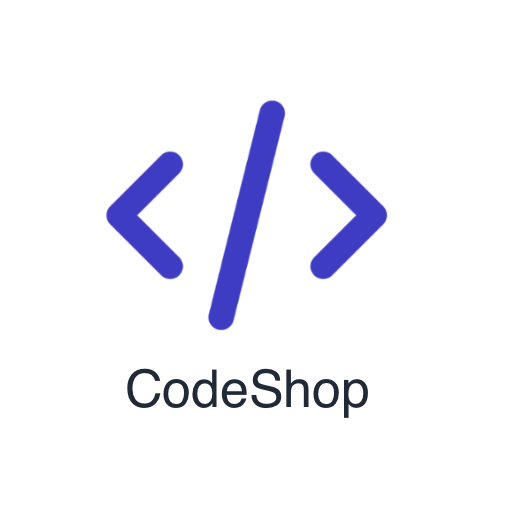
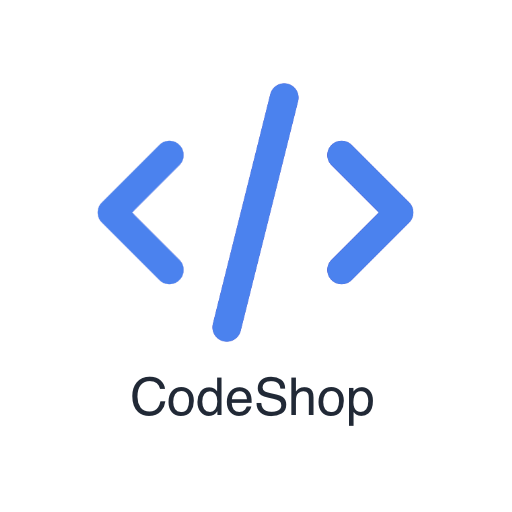
chore: 主题色更换为蓝色

diff --git a/pages/account/password.vue b/pages/account/password.vue
@@ -9,7 +9,7 @@
             </label>
             <div class="mt-1">
               <input v-model="current_password" id="current_password" name="current_password" type="password" required=""
-                class="appearance-none block w-full px-3 py-2 border border-gray-300 rounded-md shadow-sm placeholder-gray-400 focus:outline-none focus:ring-indigo-500 focus:border-indigo-500 sm:text-sm" />
+                class="appearance-none block w-full px-3 py-2 border border-gray-300 rounded-md shadow-sm placeholder-gray-400 focus:outline-none focus:ring-blue-400 focus:border-blue-400 sm:text-sm" />
             </div>
           </div>
 
@@ -19,7 +19,7 @@
             </label>
             <div class="mt-1">
               <input v-model="password" id="password" name="password" type="password" required=""
-                class="appearance-none block w-full px-3 py-2 border border-gray-300 rounded-md shadow-sm placeholder-gray-400 focus:outline-none focus:ring-indigo-500 focus:border-indigo-500 sm:text-sm" />
+                class="appearance-none block w-full px-3 py-2 border border-gray-300 rounded-md shadow-sm placeholder-gray-400 focus:outline-none focus:ring-blue-400 focus:border-blue-400 sm:text-sm" />
             </div>
           </div>
           <div class="col-span-3 sm:col-span-2">
@@ -30,7 +30,7 @@
               <div class="mt-1">
                 <input v-model="password_confirmation" id="password_confirmation" name="password_confirmation"
                   type="password" required=""
-                  class="appearance-none block w-full px-3 py-2 border border-gray-300 rounded-md shadow-sm placeholder-gray-400 focus:outline-none focus:ring-indigo-500 focus:border-indigo-500 sm:text-sm" />
+                  class="appearance-none block w-full px-3 py-2 border border-gray-300 rounded-md shadow-sm placeholder-gray-400 focus:outline-none focus:ring-blue-400 focus:border-blue-400 sm:text-sm" />
               </div>
             </div>
           </div>
@@ -39,7 +39,7 @@
       <div class="px-4 py-3 bg-gray-100 sm:px-6">
         <Loading class="w-16">
           <button type="submit"
-            class="w-full flex justify-center py-2 px-4 border border-transparent rounded-md shadow-sm text-sm font-medium text-white bg-indigo-600 hover:bg-indigo-700 focus:outline-none focus:ring-2 focus:ring-offset-2 focus:ring-indigo-500">
+            class="w-full flex justify-center py-2 px-4 border border-transparent rounded-md shadow-sm text-sm font-medium text-white bg-blue-500 hover:bg-blue-600 focus:outline-none focus:ring-2 focus:ring-offset-2 focus:ring-blue-400">
             保存
           </button>
         </Loading>

diff --git a/pages/login.vue b/pages/login.vue
@@ -10,7 +10,7 @@
         </label>
         <div class="mt-1">
           <input v-model="email" id="email" name="email" type="email" autocomplete="email" required=""
-            class="appearance-none block w-full px-3 py-2 border border-gray-300 rounded-md shadow-sm placeholder-gray-400 focus:outline-none focus:ring-indigo-500 focus:border-indigo-500 sm:text-sm" />
+            class="appearance-none block w-full px-3 py-2 border border-gray-300 rounded-md shadow-sm placeholder-gray-400 focus:outline-none focus:ring-blue-400 focus:border-blue-400 sm:text-sm" />
         </div>
       </div>
 
@@ -21,21 +21,21 @@
         <div class="mt-1">
           <input v-model="password" id="password" name="password" type="password" autocomplete="current-password"
             required=""
-            class="appearance-none block w-full px-3 py-2 border border-gray-300 rounded-md shadow-sm placeholder-gray-400 focus:outline-none focus:ring-indigo-500 focus:border-indigo-500 sm:text-sm" />
+            class="appearance-none block w-full px-3 py-2 border border-gray-300 rounded-md shadow-sm placeholder-gray-400 focus:outline-none focus:ring-blue-400 focus:border-blue-400 sm:text-sm" />
         </div>
       </div>
 
       <div class="flex items-center justify-between">
         <div class="flex items-center">
           <input v-model="remember_me" id="remember_me" name="remember_me" type="checkbox"
-            class="h-4 w-4 text-indigo-600 focus:ring-indigo-500 border-gray-300 rounded">
+            class="h-4 w-4 text-blue-500 focus:ring-blue-400 border-gray-300 rounded">
           <label for="remember_me" class="ml-2 block text-sm text-gray-900">
             记住我
           </label>
         </div>
 
         <div class="text-sm">
-          <NuxtLink to="/password/forgot" class="font-medium text-indigo-600">
+          <NuxtLink to="/password/forgot" class="font-medium text-blue-500">
             忘记密码？
           </NuxtLink>
         </div>
@@ -43,7 +43,7 @@
 
       <Loading>
         <button type="submit"
-          class="w-full flex justify-center py-2 px-4 border border-transparent rounded-md shadow-sm text-sm font-medium text-white bg-indigo-600 hover:bg-indigo-700 focus:outline-none focus:ring-2 focus:ring-offset-2 focus:ring-indigo-500">
+          class="w-full flex justify-center py-2 px-4 border border-transparent rounded-md shadow-sm text-sm font-medium text-white bg-blue-500 hover:bg-blue-600 focus:outline-none focus:ring-2 focus:ring-offset-2 focus:ring-blue-400">
           确认
         </button>
       </Loading>

diff --git a/pages/password/reset.vue b/pages/password/reset.vue
@@ -11,7 +11,7 @@
         <div class="mt-1">
           <input v-model="email" id="email" name="email" type="email" autocomplete="email" required=""
             disabled="disabled"
-            class="appearance-none block w-full px-3 py-2 border border-gray-300 rounded-md shadow-sm placeholder-gray-400 focus:outline-none focus:ring-indigo-500 focus:border-indigo-500 sm:text-sm" />
+            class="appearance-none block w-full px-3 py-2 border border-gray-300 rounded-md shadow-sm placeholder-gray-400 focus:outline-none focus:ring-blue-400 focus:border-blue-400 sm:text-sm" />
         </div>
       </div>
 
@@ -22,7 +22,7 @@
         <div class="mt-1">
           <input v-model="password" id="password" name="password" type="password" autocomplete="current-password"
             required=""
-            class="appearance-none block w-full px-3 py-2 border border-gray-300 rounded-md shadow-sm placeholder-gray-400 focus:outline-none focus:ring-indigo-500 focus:border-indigo-500 sm:text-sm" />
+            class="appearance-none block w-full px-3 py-2 border border-gray-300 rounded-md shadow-sm placeholder-gray-400 focus:outline-none focus:ring-blue-400 focus:border-blue-400 sm:text-sm" />
         </div>
       </div>
 
@@ -33,13 +33,13 @@
         <div class="mt-1">
           <input v-model="password_confirmation" id="password_confirmation" name="password_confirmation" type="password"
             required=""
-            class="appearance-none block w-full px-3 py-2 border border-gray-300 rounded-md shadow-sm placeholder-gray-400 focus:outline-none focus:ring-indigo-500 focus:border-indigo-500 sm:text-sm" />
+            class="appearance-none block w-full px-3 py-2 border border-gray-300 rounded-md shadow-sm placeholder-gray-400 focus:outline-none focus:ring-blue-400 focus:border-blue-400 sm:text-sm" />
         </div>
       </div>
 
       <Loading>
         <button type="submit"
-          class="w-full flex justify-center py-2 px-4 border border-transparent rounded-md shadow-sm text-sm font-medium text-white bg-indigo-600 hover:bg-indigo-700 focus:outline-none focus:ring-2 focus:ring-offset-2 focus:ring-indigo-500">
+          class="w-full flex justify-center py-2 px-4 border border-transparent rounded-md shadow-sm text-sm font-medium text-white bg-blue-500 hover:bg-blue-600 focus:outline-none focus:ring-2 focus:ring-offset-2 focus:ring-blue-400">
           确认
         </button>
       </Loading>

diff --git a/pages/register.vue b/pages/register.vue
@@ -10,7 +10,7 @@
         </label>
         <div class="mt-1">
           <input v-model="email" id="email" name="email" type="email" autocomplete="email" required=""
-            class="appearance-none block w-full px-3 py-2 border border-gray-300 rounded-md shadow-sm placeholder-gray-400 focus:outline-none focus:ring-indigo-500 focus:border-indigo-500 sm:text-sm" />
+            class="appearance-none block w-full px-3 py-2 border border-gray-300 rounded-md shadow-sm placeholder-gray-400 focus:outline-none focus:ring-blue-400 focus:border-blue-400 sm:text-sm" />
         </div>
       </div>
 
@@ -21,7 +21,7 @@
         <div class="mt-1">
           <input v-model="password" id="password" name="password" type="password" autocomplete="current-password"
             required=""
-            class="appearance-none block w-full px-3 py-2 border border-gray-300 rounded-md shadow-sm placeholder-gray-400 focus:outline-none focus:ring-indigo-500 focus:border-indigo-500 sm:text-sm" />
+            class="appearance-none block w-full px-3 py-2 border border-gray-300 rounded-md shadow-sm placeholder-gray-400 focus:outline-none focus:ring-blue-400 focus:border-blue-400 sm:text-sm" />
         </div>
       </div>
 
@@ -32,13 +32,13 @@
         <div class="mt-1">
           <input v-model="password_confirmation" id="password_confirmation" name="password_confirmation" type="password"
             required=""
-            class="appearance-none block w-full px-3 py-2 border border-gray-300 rounded-md shadow-sm placeholder-gray-400 focus:outline-none focus:ring-indigo-500 focus:border-indigo-500 sm:text-sm" />
+            class="appearance-none block w-full px-3 py-2 border border-gray-300 rounded-md shadow-sm placeholder-gray-400 focus:outline-none focus:ring-blue-400 focus:border-blue-400 sm:text-sm" />
         </div>
       </div>
 
       <Loading>
         <button type="submit"
-          class="w-full flex justify-center py-2 px-4 border border-transparent rounded-md shadow-sm text-sm font-medium text-white bg-indigo-600 hover:bg-indigo-700 focus:outline-none focus:ring-2 focus:ring-offset-2 focus:ring-indigo-500">
+          class="w-full flex justify-center py-2 px-4 border border-transparent rounded-md shadow-sm text-sm font-medium text-white bg-blue-500 hover:bg-blue-600 focus:outline-none focus:ring-2 focus:ring-offset-2 focus:ring-blue-400">
           确认
         </button>
       </Loading>

diff --git a/pages/account/profile.vue b/pages/account/profile.vue
@@ -9,7 +9,7 @@
             </label>
             <div class="mt-1">
               <input v-model="user.name" id="name" name="name" type="text"
-                class="appearance-none block w-full px-3 py-2 border border-gray-300 rounded-md shadow-sm placeholder-gray-400 focus:outline-none focus:ring-indigo-500 focus:border-indigo-500 sm:text-sm" />
+                class="appearance-none block w-full px-3 py-2 border border-gray-300 rounded-md shadow-sm placeholder-gray-400 focus:outline-none focus:ring-blue-400 focus:border-blue-400 sm:text-sm" />
             </div>
           </div>
           <div class="col-span-3 sm:col-span-2">
@@ -19,7 +19,7 @@
             </label>
             <div class="mt-1">
               <input v-model="user.email" id="email" name="email" type="email"
-                class="appearance-none block w-full px-3 py-2 border border-gray-300 rounded-md shadow-sm placeholder-gray-400 focus:outline-none focus:ring-indigo-500 focus:border-indigo-500 sm:text-sm" />
+                class="appearance-none block w-full px-3 py-2 border border-gray-300 rounded-md shadow-sm placeholder-gray-400 focus:outline-none focus:ring-blue-400 focus:border-blue-400 sm:text-sm" />
             </div>
           </div>
         </div>
@@ -27,7 +27,7 @@
       <div class="px-4 py-3 bg-gray-100 sm:px-6">
         <Loading class="w-16">
           <button type="submit"
-            class="w-full flex justify-center py-2 px-4 border border-transparent rounded-md shadow-sm text-sm font-medium text-white bg-indigo-600 hover:bg-indigo-700 focus:outline-none focus:ring-2 focus:ring-offset-2 focus:ring-indigo-500">
+            class="w-full flex justify-center py-2 px-4 border border-transparent rounded-md shadow-sm text-sm font-medium text-white bg-blue-500 hover:bg-blue-600 focus:outline-none focus:ring-2 focus:ring-offset-2 focus:ring-blue-400">
             保存
           </button>
         </Loading>

diff --git a/components/HeaderBar.vue b/components/HeaderBar.vue
@@ -1,7 +1,7 @@
 <template>
   <header class="h-16 flex items-center justify-between">
     <NuxtLink to="/" class="block flex items-center justify-between space-x-4">
-      <Logo class="w-8 h-8 text-indigo-700" />
+      <Logo class="w-8 h-8 text-blue-600" />
       <h1 class="text-sm sm:text-lg font-semibold">CodeShop</h1>
     </NuxtLink>
     <div v-if="auth.loggedIn" class="flex items-center justify-between space-x-6">
@@ -15,10 +15,10 @@
     </div>
     <div v-else class="flex items-center justify-between space-x-4">
       <NuxtLink to="/login"
-        class="inline-flex items-center px-2 py-1 sm:px-4 sm:py-2 border border-transparent text-sm font-medium rounded-md text-gray-700 bg-white hover:bg-white focus:outline-none focus:ring-2 focus:ring-offset-2 focus:ring-indigo-500">
+        class="inline-flex items-center px-2 py-1 sm:px-4 sm:py-2 border border-transparent text-sm font-medium rounded-md text-gray-700 bg-white hover:bg-white focus:outline-none focus:ring-2 focus:ring-offset-2 focus:ring-blue-400">
         登录</NuxtLink>
       <NuxtLink to="/register"
-        class="inline-flex items-center px-2 py-1 sm:px-4 sm:py-2 border border-transparent text-sm font-medium rounded-md text-white bg-indigo-600 hover:bg-indigo-700 focus:outline-none focus:ring-2 focus:ring-offset-2 focus:ring-indigo-500">
+        class="inline-flex items-center px-2 py-1 sm:px-4 sm:py-2 border border-transparent text-sm font-medium rounded-md text-white bg-blue-500 hover:bg-blue-600 focus:outline-none focus:ring-2 focus:ring-offset-2 focus:ring-blue-400">
         注册</NuxtLink>
     </div>
   </header>

diff --git a/pages/email/verify.vue b/pages/email/verify.vue
@@ -19,10 +19,10 @@
         <div class="mt-8">
           <div class="flex space-x-3">
             <NuxtLink to="/account/profile"
-              class="inline-flex items-center px-2.5 py-1.5 border border-gray-300 shadow-sm text-xs font-medium rounded text-gray-700 bg-white hover:bg-gray-50 focus:outline-none focus:ring-2 focus:ring-offset-2 md:focus:ring-offset-indigo-500">
+              class="inline-flex items-center px-2.5 py-1.5 border border-gray-300 shadow-sm text-xs font-medium rounded text-gray-700 bg-white hover:bg-gray-50 focus:outline-none focus:ring-2 focus:ring-offset-2 md:focus:ring-offset-blue-400">
               去首页</NuxtLink>
             <NuxtLink to="/account/profile"
-              class="inline-flex items-center px-2.5 py-1.5 border border-gray-300 shadow-sm text-xs font-medium rounded text-gray-700 bg-white hover:bg-gray-50 focus:outline-none focus:ring-2 focus:ring-offset-2 md:focus:ring-offset-indigo-500">
+              class="inline-flex items-center px-2.5 py-1.5 border border-gray-300 shadow-sm text-xs font-medium rounded text-gray-700 bg-white hover:bg-gray-50 focus:outline-none focus:ring-2 focus:ring-offset-2 md:focus:ring-offset-blue-400">
               前往个人中心</NuxtLink>
           </div>
         </div>

diff --git a/pages/password/forgot.vue b/pages/password/forgot.vue
@@ -10,13 +10,13 @@
         </label>
         <div class="mt-1">
           <input v-model="email" id="email" name="email" type="email" autocomplete="email" required=""
-            class="appearance-none block w-full px-3 py-2 border border-gray-300 rounded-md shadow-sm placeholder-gray-400 focus:outline-none focus:ring-indigo-500 focus:border-indigo-500 sm:text-sm" />
+            class="appearance-none block w-full px-3 py-2 border border-gray-300 rounded-md shadow-sm placeholder-gray-400 focus:outline-none focus:ring-blue-400 focus:border-blue-400 sm:text-sm" />
         </div>
       </div>
 
       <Loading>
         <button type="submit"
-          class="w-full flex justify-center py-2 px-4 border border-transparent rounded-md shadow-sm text-sm font-medium text-white bg-indigo-600 hover:bg-indigo-700 focus:outline-none focus:ring-2 focus:ring-offset-2 focus:ring-indigo-500">
+          class="w-full flex justify-center py-2 px-4 border border-transparent rounded-md shadow-sm text-sm font-medium text-white bg-blue-500 hover:bg-blue-600 focus:outline-none focus:ring-2 focus:ring-offset-2 focus:ring-blue-400">
           确认
         </button>
       </Loading>

diff --git a/pages/email/resend.vue b/pages/email/resend.vue
@@ -16,7 +16,7 @@
       <form class="space-y-6 mt-8" @submit.prevent="resend">
         <Loading>
           <button type="submit" :disabled="disabled"
-            class="w-full flex justify-center py-2 px-4 border border-transparent rounded-md shadow-sm text-sm font-medium text-white bg-indigo-600 hover:bg-indigo-700 focus:outline-none focus:ring-2 focus:ring-offset-2 focus:ring-indigo-500">
+            class="w-full flex justify-center py-2 px-4 border border-transparent rounded-md shadow-sm text-sm font-medium text-white bg-blue-500 hover:bg-blue-600 focus:outline-none focus:ring-2 focus:ring-offset-2 focus:ring-blue-400">
             {{ text }}
           </button>
         </Loading>

diff --git a/pages/products/_id.vue b/pages/products/_id.vue
@@ -82,7 +82,7 @@
         </div>
         <div class="flex justify-end mt-6">
           <button
-            class="w-full md:w-32 flex justify-center py-2 px-4 border border-transparent rounded-md shadow-sm text-sm font-medium text-white bg-indigo-600 hover:bg-indigo-700 focus:outline-none focus:ring-2 focus:ring-offset-2 focus:ring-indigo-500">加入购物车</button>
+            class="w-full md:w-32 flex justify-center py-2 px-4 border border-transparent rounded-md shadow-sm text-sm font-medium text-white bg-blue-500 hover:bg-blue-600 focus:outline-none focus:ring-2 focus:ring-offset-2 focus:ring-blue-400">加入购物车</button>
         </div>
       </div>
     </div>

diff --git a/components/Avatar.vue b/components/Avatar.vue
@@ -2,7 +2,7 @@
   <div class="relative inline-block text-left">
     <div>
       <button type="button" @click="toggle"
-        class="bg-gray-100 rounded-full flex items-center focus:outline-none focus:ring-2 focus:ring-offset-gray-100 focus:ring-indigo-500"
+        class="bg-gray-100 rounded-full flex items-center focus:outline-none focus:ring-2 focus:ring-offset-gray-100 focus:ring-blue-400"
         aria-expanded="true" aria-haspopup="true">
         <span class="sr-only">{{ auth.user.name || auth.user.email }}</span>
         <svg xmlns="http://www.w3.org/2000/svg" class="h-6 w-6" fill="none" viewBox="0 0 24 24" stroke="currentColor">

diff --git a/assets/vue-toastification.css b/assets/vue-toastification.css
@@ -67,10 +67,10 @@
 }
 
 .Vue-Toastification__toast--default svg {
-  color: #3E3CC2 !important;
+  color: #6C727F !important;
 }
 .Vue-Toastification__toast--info svg {
-  color: #2563eb !important;
+  color: #4B82EE !important;
 }
 .Vue-Toastification__toast--success svg {
   color: #059669 !important;
